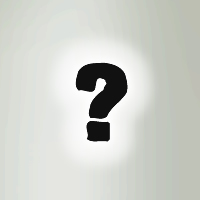
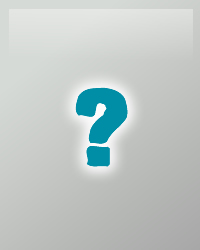
include ui and styles

diff --git a/src/components/animals/Animals.tsx b/src/components/animals/Animals.tsx
@@ -1,11 +1,14 @@
-import useAxios from "../services/AnimalServices";
+import useAxios from "../../services/AnimalServices";
 import { useEffect, useState } from "react";
-import CardAnimal from "./cardAnimal/CardAnimal";
+import CardAnimal from "../cardAnimal/CardAnimal";
+import "./Animals.css"
+
+const QUANTITY_IMAGE = 12;
 
 const Animals  = () => {
     const { response } = useAxios({
       method: "get",
-      url: `/?per_page=8`,
+      url: `/?per_page=${QUANTITY_IMAGE}`,
       headers: {
         accept: '*/*'
       }
@@ -53,6 +56,10 @@ const Animals  = () => {
               if (card.src === selectOne.src) {
                 setSuccess(success + 1)
                 setTurns(turns)
+                console.log(success)
+                  if ((success + 1) === QUANTITY_IMAGE) {
+                    alert("termino");
+                  }
                 return {...card, selection: true}
               } else {
                 return card
@@ -67,10 +74,21 @@ const Animals  = () => {
       }
     }, [selectOne, selectTwo])
   
-    console.log('new listCards', listCards)
+    //console.log('new listCards', listCards)
     return (
       <>
-      <div>IMAGENES</div>
+          <div className="container-fluid counter">
+            <div className='container infoCounter'>
+              <div className='container_success'>
+                <div className='tit_success'>ACIERTOS:</div>
+                <div className='value_success'>{success}</div>
+              </div>
+              <div className='container_fails'>
+                <div className='tit_fails'>FALLOS:</div>
+                <div className='value_fails'>{turns}</div>
+              </div>                
+            </div>  
+          </div>
           <div className="container">
             <div className="row">
               {
@@ -86,8 +104,6 @@ const Animals  = () => {
                 }
             </div> 
           </div> 
-          <div>ERRORES:{turns}</div>
-          <div>ACIERTOS:{success}</div>
       </>
     )
   }

diff --git a/src/components/animals/Animals.css b/src/components/animals/Animals.css
@@ -1,0 +1,97 @@
+.counter{
+    background: #008DA6;
+}
+
+.container_success, .container_fails{
+    color:white;
+    font-size:20px;
+    display: flex;
+    margin-left: 20px;
+}
+
+.tit_success{
+    margin-right: 5px;
+    font-weight: 500;
+}
+
+.value_success{
+    font-weight: 900;
+
+}
+.value_fails{
+    font-weight: 900;
+}
+
+.tit_fails{
+    margin-right: 5px;
+    font-weight: 500;   
+}
+
+.infoCounter{
+    display: flex;
+    align-items: center;
+    justify-content: center;
+    padding: 5px;
+    margin-bottom: 50px;
+}
+
+.wrapper {
+    height: 100vh;
+    /* This part is important for centering the content */
+    display: flex;
+    align-items: center;
+    justify-content: center;
+    /* End center */
+    background: -webkit-linear-gradient(to right, #834d9b, #d04ed6);
+    background: linear-gradient(to right, #834d9b, #d04ed6);
+  }
+  
+  .wrapper a {
+    display: inline-block;
+    text-decoration: none;
+    padding: 15px;
+    background-color: #fff;
+    border-radius: 3px;
+    text-transform: uppercase;
+    color: #585858;
+    font-family: 'Roboto', sans-serif;
+  }
+  
+  .modal {
+    visibility: hidden;
+    opacity: 0;
+    position: absolute;
+    top: 0;
+    right: 0;
+    bottom: 0;
+    left: 0;
+    display: flex;
+    align-items: center;
+    justify-content: center;
+    background: rgba(77, 77, 77, .7);
+    transition: all .4s;
+  }
+  
+  .modal:target {
+    visibility: visible;
+    opacity: 1;
+  }
+  
+  .modal__content {
+    border-radius: 4px;
+    position: relative;
+    width: 500px;
+    max-width: 90%;
+    background: #fff;
+    padding: 1em 2em;
+  }
+  
+
+  .modal__close {
+    position: absolute;
+    top: 10px;
+    right: 10px;
+    color: #585858;
+    text-decoration: none;
+  }
+

diff --git a/src/components/cardAnimal/CardAnimal.css b/src/components/cardAnimal/CardAnimal.css
@@ -1,10 +1,36 @@
+.cardContainer{
+    display: flex;
+    align-items: center;
+    justify-content: center;
+}
+/* Float */
+.hvr-float {
+    display: inline-block;
+    vertical-align: middle;
+    -webkit-transform: perspective(1px) translateZ(0);
+    transform: perspective(1px) translateZ(0);
+    box-shadow: 0 0 1px transparent;
+    -webkit-transition-duration: 0.3s;
+    transition-duration: 0.3s;
+    -webkit-transition-property: transform;
+    transition-property: transform;
+    -webkit-transition-timing-function: ease-out;
+    transition-timing-function: ease-out;
+  }
+  .hvr-float:hover, .hvr-float:focus, .hvr-float:active {
+    -webkit-transform: translateY(-8px);
+    transform: translateY(-8px);
+  }
+
 .cardContainer .img_animal{
     width: 200px;
-    height: 200px;
+    height: 250px;
     margin-bottom: 25px;
     transform: rotateY(90deg);
     transition: all ease-in 0.2s;
     position: absolute;
+    border-radius: 6px !important;
+    border: 5px solid white;
 }
 
 .flipCard .img_animal{
@@ -14,8 +40,10 @@
 
 .cardContainer .img_interrogation{
     width: 200px;
-    height: 200px;
+    height: 250px;
     margin-bottom: 25px;
+    border-radius: 6px !important;
+    border: 5px solid white;
 }
 
 .flipCard .img_interrogation{

diff --git a/src/pages/gamePage/GamePage.tsx b/src/pages/gamePage/GamePage.tsx
@@ -1,20 +1,33 @@
-import { useEffect } from 'react'
-import Animals from '../../components/Animals'
+import { useEffect, useState } from 'react'
+import Animals from '../../components/animals/Animals'
 import useRouter from '../../hook/useRouter';
+import logo_mini from "./../../assets/logo_mini.png"
+import "./GamePage.css"
 
 const GamePage = () => {
     const { navigate } = useRouter();
-
+    const [nameUserPrint, setNameUserPrint] = useState('');
+    
     useEffect(() => {
       const nameUser = JSON.parse(localStorage.getItem("Nombre") as any) ;
       if (nameUser !== null) {
         navigate.push('/game')
+        setNameUserPrint(nameUser)
       } else navigate.push('/')
     }, []);
     
     
   return (
+    <>
+    <div className='container-fluid top_name'>
+      <div className='container info_top'>
+        <img src={logo_mini} className="logo_mini" alt="logo_mini" /> 
+        <div className='txt_hi'>HOLA</div>
+        <div className='txt_name'>{nameUserPrint}</div> 
+      </div>
+    </div>
     <Animals />
+    </>
   )
 }
 

diff --git a/src/components/cardAnimal/CardAnimal.tsx b/src/components/cardAnimal/CardAnimal.tsx
@@ -15,12 +15,12 @@ const CardAnimal = (props: Props) => {
     const {card, handleSelect, flipCard, disabled } = props;
   return (
     <div className="col-xxl-2 col-xl-3 col-lg-3 col-md-3 col-sm-3">
-        <div className="cardContainer">
+        <div className="cardContainer hvr-float">
             <div className={flipCard ? "flipCard" : ""}>
                 <img src={card.src} className="img_animal" alt="img_animal" />  
                 <img src={img_interrogation} className="img_interrogation" onClick={!disabled ? () => handleSelect?.(card) : () => ('')} alt="img_interrogation" />
             </div>
-            </div>
+        </div>
     </div> 
   )
 }

diff --git a/src/pages/gamePage/GamePage.css b/src/pages/gamePage/GamePage.css
@@ -1,0 +1,23 @@
+.top_name{
+    background-color: #CACACA;
+}
+
+.info_top{
+    display: flex;
+    align-items: center;
+    justify-content: center;
+    font-size: 25px;
+}
+
+.txt_hi{
+    margin-right: 5px;
+    color: white;
+    font-weight: 500;
+    text-transform: uppercase;
+}
+
+.txt_name{
+    color: #008DA6;
+    font-weight: 900;
+    text-transform: uppercase;
+}

diff --git a/src/pages/formPage/FormPage.css b/src/pages/formPage/FormPage.css
@@ -2,8 +2,3 @@
     display: table;
     margin: 0 auto;
 }
-h2{
-    text-align: center;
-    color: white;
-    padding-bottom: 20px;
-}

diff --git a/src/components/animals/index.ts b/src/components/animals/index.ts
@@ -1,0 +1,1 @@
+export { default } from './Animals';
